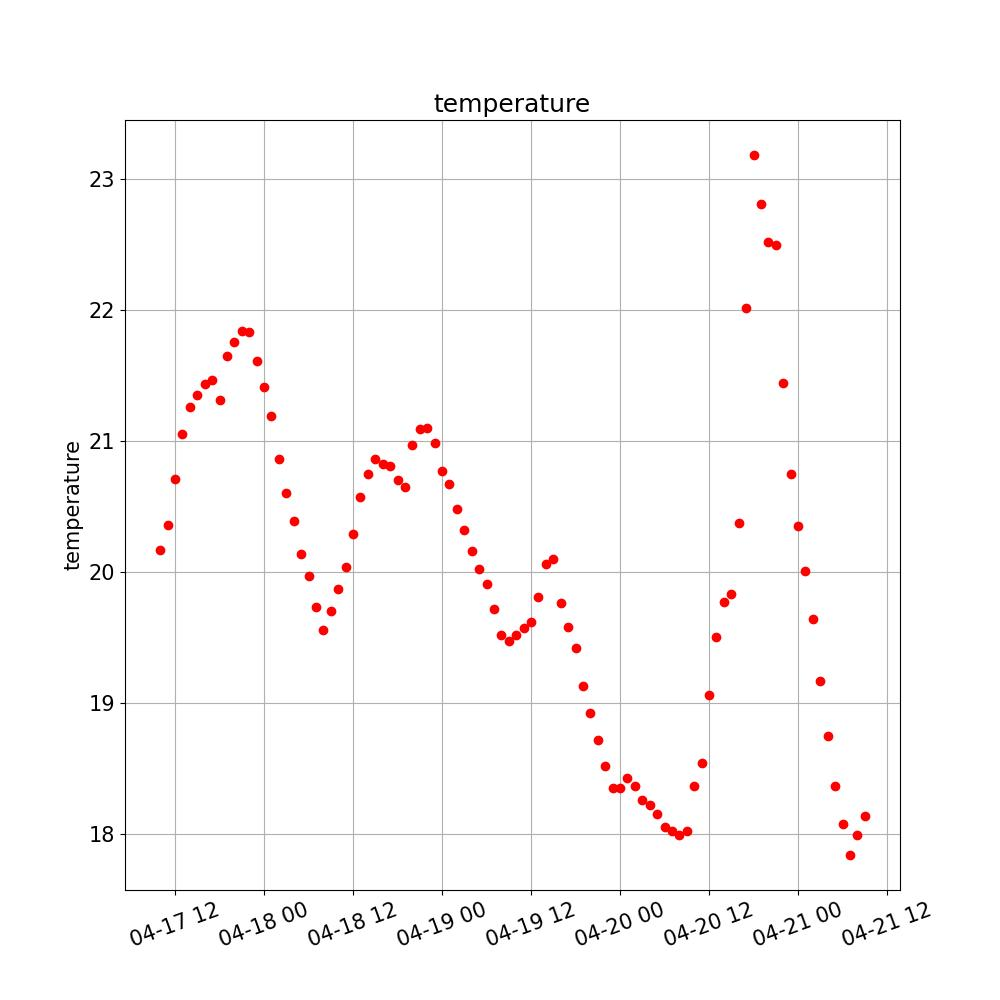
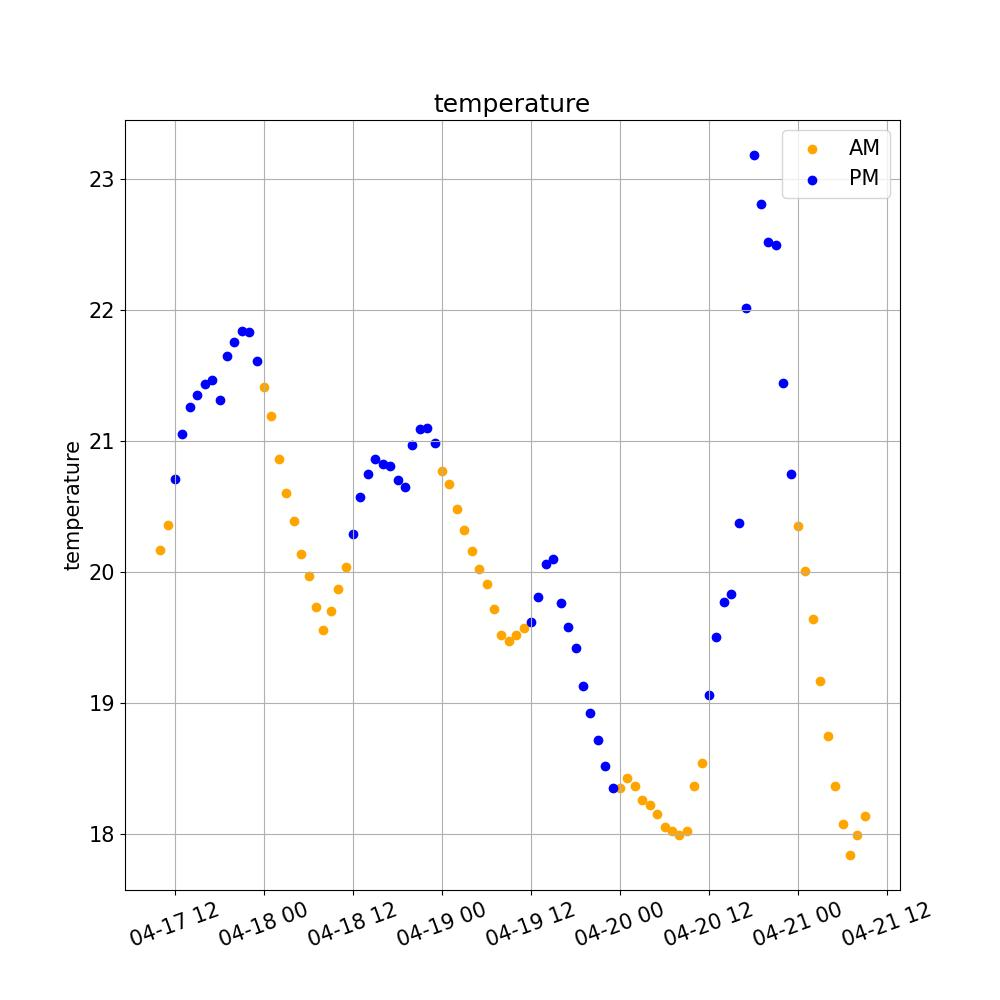
Update: 2024-04-21 09:54:36

diff --git a/index.html b/index.html
@@ -45,6 +45,6 @@
       <img src="image4.jpg?version=0421" alt="No.4">
     </div>
   </div>
-  <div style="background-color: tomato; width: 100%; height: 40px; font-size: 16px;">Last updated at 09:41</div>
+  <div style="background-color: tomato; width: 100%; height: 40px; font-size: 16px;">Last updated at 09:54</div>
 </body>
 </html>

diff --git a/create_plot.py b/create_plot.py
@@ -53,14 +53,28 @@ for date_str in timestamp:
 x = new_timestamp
 y = tempture
 plt.title('temperature')
-plt.plot(x, y, 
-	marker='o', 
-	linestyle='None',
-	markerfacecolor='red',
-	markeredgecolor='red')
 plt.xticks(rotation=20)
 plt.ylabel('temperature')
 plt.grid(True)
+# plt.plot(x, y, 
+	# marker='o', 
+	# linestyle='None',
+	# markerfacecolor='red',
+	# markeredgecolor='red')
+am_x = []
+am_y = []
+pm_x = []
+pm_y = []
+for i, date in enumerate(x):
+	if date.hour < 12:
+		am_x.append(date)
+		am_y.append(y[i])
+	else:
+		pm_x.append(date)
+		pm_y.append(y[i])
+plt.scatter(am_x, am_y, color='orange', marker='o', label='AM')
+plt.scatter(pm_x, pm_y, color='blue', marker='o', label='PM')
+plt.legend()
 plt.savefig('/home/pi/Desktop/cotoha/cotoha-weather.github.io/image1.jpg')
 plt.clf()
 print('created image1')
